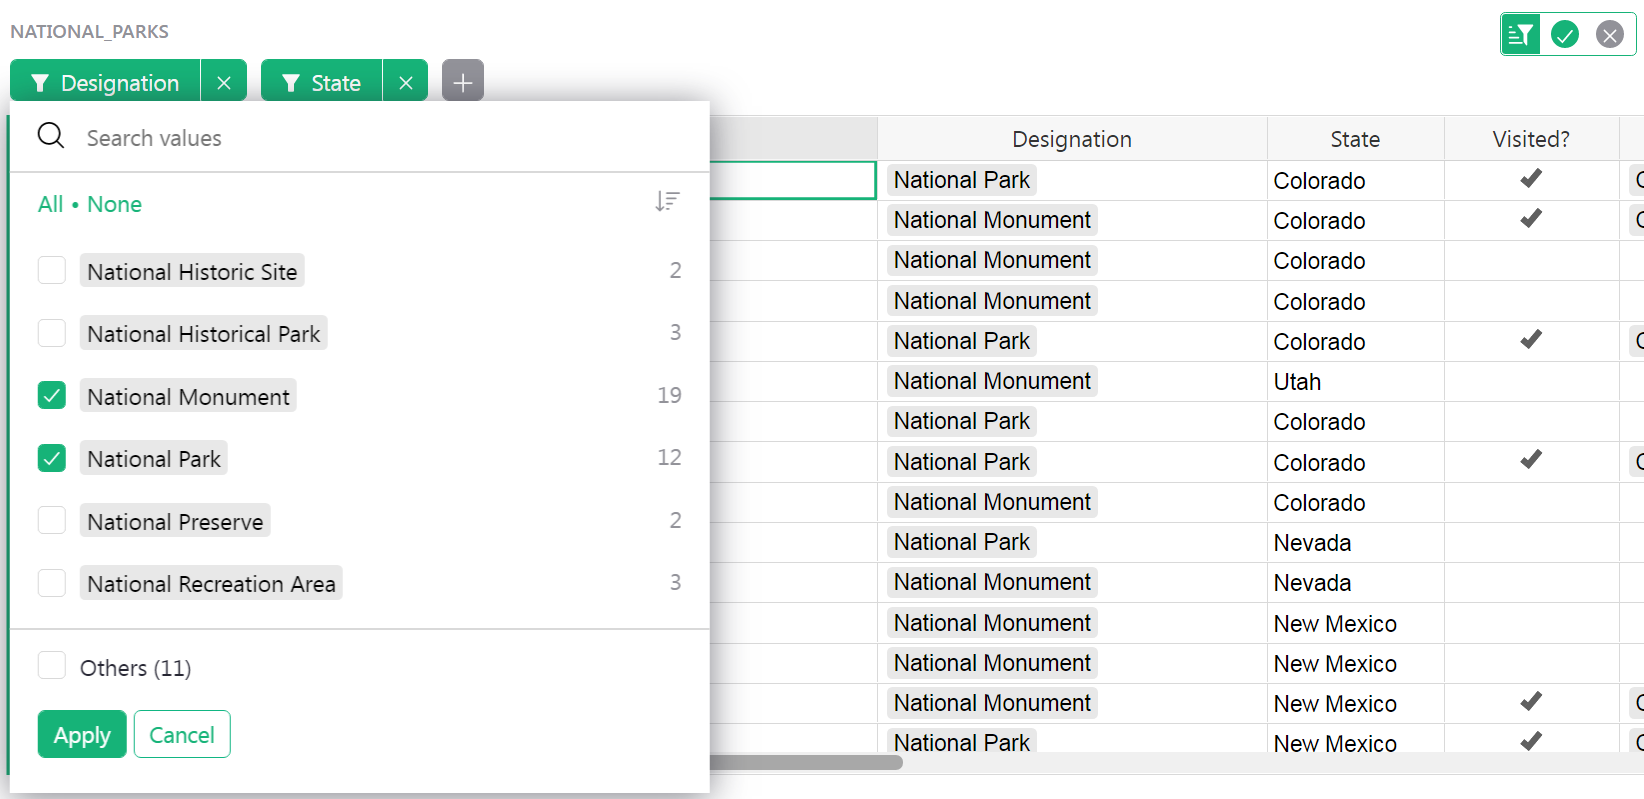
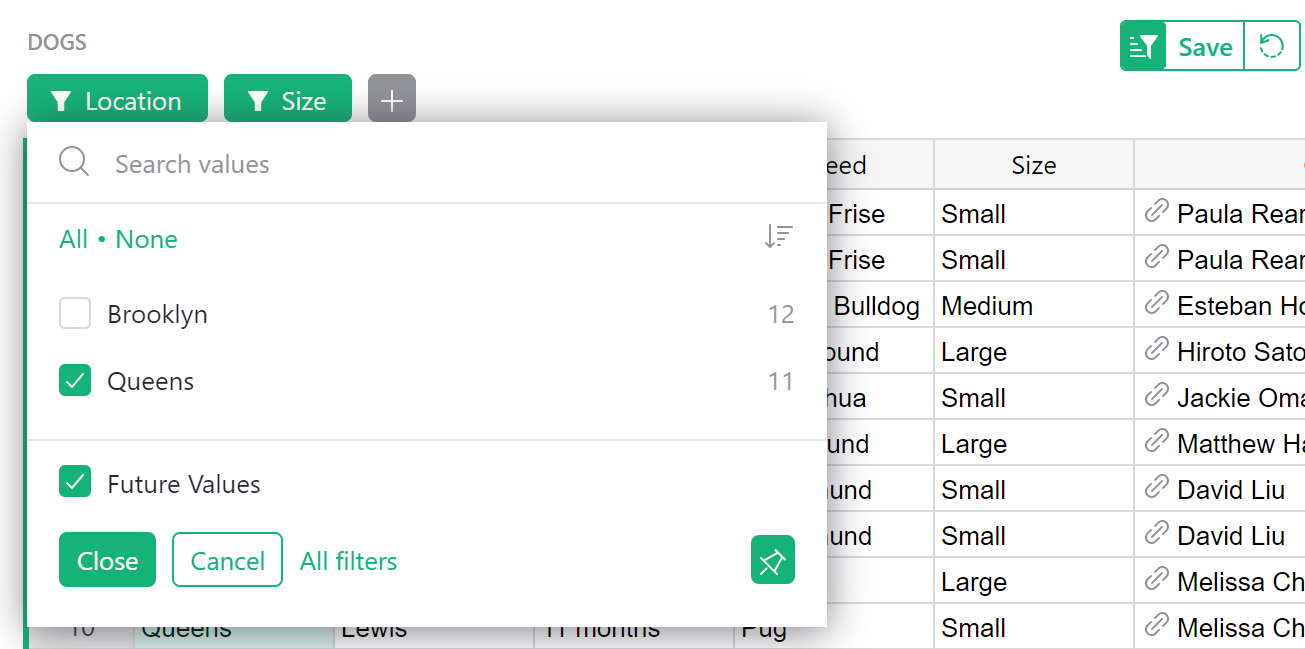
Updated 'Filter Buttons' to reflect new pinning abilities

Changed region(s): [[0.0, 0.0308, 1.0, 1.0], [0.8582, 0.0, 1.0, 0.1233], [0.1839, 0.8012, 0.2146, 0.832]]

diff --git a/help/search-sort-filter.md b/help/search-sort-filter.md
@@ -121,8 +121,8 @@ dialog listing the values in the column:
 <span class="screenshot-large">*![Filter Menu](images/search-sort-filter/filter-menu.png)*</span>
 {: .screenshot-half }
 
-Uncheck the values you don't want to see, or click "Select none" and then check only the values
-you do want to see. The magnifying glass icon in the corner of the dialog lets you find values of
+Uncheck the values you don't want to see, or click "None" and then check only the values
+you do want to see. The search bar at the top of the dialog lets you find values of
 interest if the list is long.
 
 Click "Apply" to apply your setting.
@@ -143,37 +143,21 @@ As with sorting, you can create different widgets or pages showing the same tabl
 filter settings. For example, you could have one page showing event attendees with status
 "Confirmed" and another one showing those with status "Pending".
 
-### Filter Buttons
+### Pinning Filters
 
-Another way to apply filtering is through Filter Buttons. To use Filter Buttons, turn on the Filter Bar. 
-Click the “Sort & Filter” icon on the top-right of the table then select “Toggle Filter Bar”.
+Filters can be pinned at the top of a table for quick filtering. By default, filters will be pinned when first applied to a table. To unpin a filter, click the filter button then click the pin icon. When pinned, the pin icon will be green. When unpinned, the pin icon will be grey. If you unpin a filter button, any saved filters will still be applied but the button will no longer be visible.
 
-<span class="screenshot-large">*![Toggle Filter Bar](images/search-sort-filter/toggle-filter-bar.png)*</span>
-{: .screenshot-half }
+<span class="screenshot-large">*![pinning-filters](images/search-sort-filter/pinning-filters.png)*</span>
+{: .screenshot-half } 
 
-A grey “+ Add Filter” button will appear at the top-left of the table. When you select this button, 
-a list of your columns will appear. 
+If you want to save your pinned filters for future sessions, click the save button next to the “Search & Filter” icon.
 
-<span class="screenshot-large">*![Filter Button Selection](images/search-sort-filter/filter-button-selection.png)*</span>
+The value in saving pinned filters with no filters applied is the ability to do quick filters and lookups without saving that filter forever, or for the rest of your team to see. So it may be useful to save the buttons without any filtering to create a quick filter toolbar.
 
-Filtering from the filter bar works exactly like the filtering described above. Note that there is a search bar at the top 
-that allows you to easily find values in longer lists.
-
-Click “Apply” to apply your settings.  
-
-If you want to save your filters for future sessions, click the green checkmark next to the “Search & Filter” icon to save.
-
-The value in <em>not</em> saving settings is the ability to do quick filters and lookups without saving that filter forever, or for 
-the rest of your team to see. So it may be useful to save the buttons without any filtering to create a quick filter toolbar.
-
-If you <em>do</em> save settings with filters applied, that saves it for future sessions and other team members will see the same thing.
+If you do save settings with filters applied, that saves it for future sessions and other team members will see the same thing.
 
 <span class="screenshot-large">*![Filter Button Filter Selection](images/search-sort-filter/filter-button-filter-selection.png)*</span>
-
-With the Filter Bar on, you have buttons that you can use to more easily see and update your filters. If you toggle the Filter Bar to off, 
-any saved filters will still be applied but the buttons will no longer be visible.
-
-<span class="screenshot-large">*![Filter Button Filtered](images/search-sort-filter/filter-button-filtered.png)*</span>
+{: .screenshot-half } 
 
 ### Complex Filters
 
